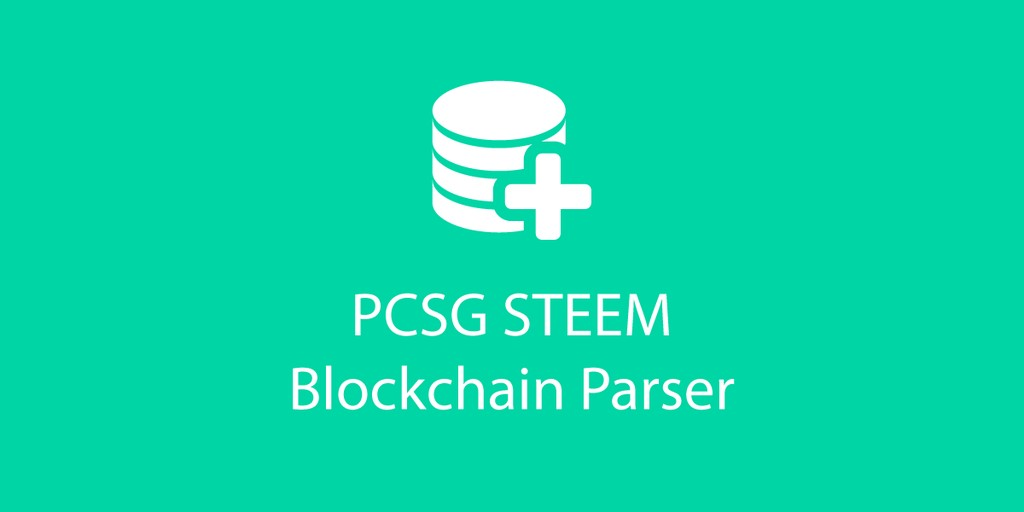
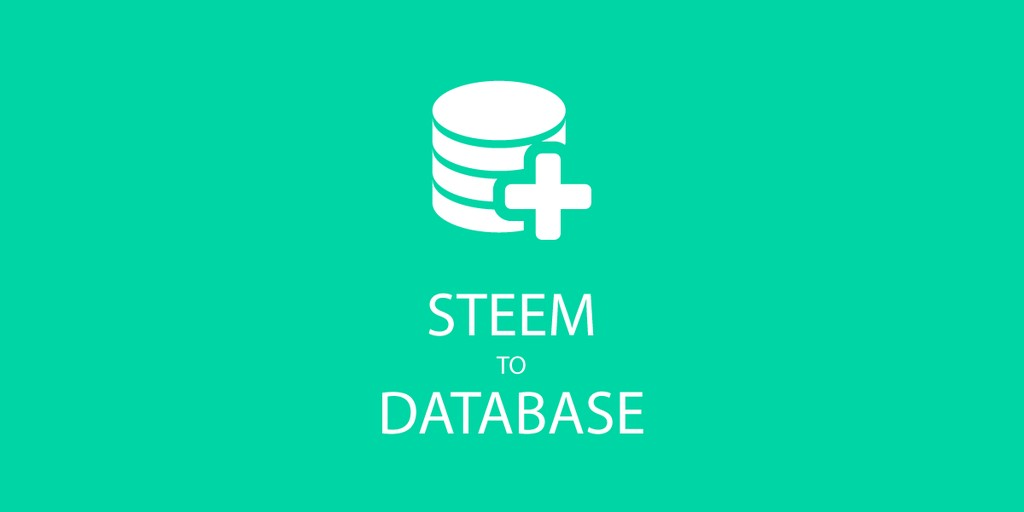
refactor: renaming

Changed region(s): [[0.2812, 0.6875, 0.7188, 0.875], [0.3438, 0.5625, 0.6562, 0.6562]]

diff --git a/README.md b/README.md
@@ -1,15 +1,15 @@
-PCSG STEEM Blockchain Parser
+STEEM to Database
 ======
 
-![PCSG STEEM Blockchain Parser](bin/header-steemit-green.png)
+![STEEM to Database](bin/header-steemit-green.png)
 
 Description
 ------
 
-The STEEM Blockchain Parser will parse the STEEM Blockchain JSON-RPC Endpoints
-and insert the data into a MySql Database. 
-It is possible to parse either a single block, a range of blocks 
-or run a continuous loop to parse all available blocks.  
+The STEEM to Database will parse the STEEM Blockchain JSON-RPC Endpoints and insert the data into a Database. 
+It is possible to parse either a single block, a range of blocks or run a continuous loop to parse all available blocks.
+
+*Currently only MySQL is supported* 
 
 Features
 ------
